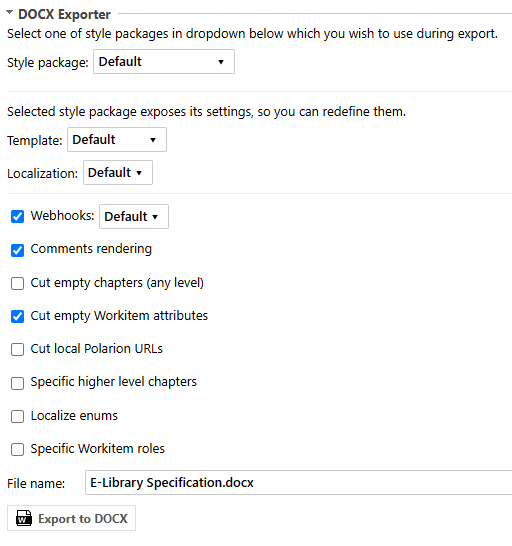
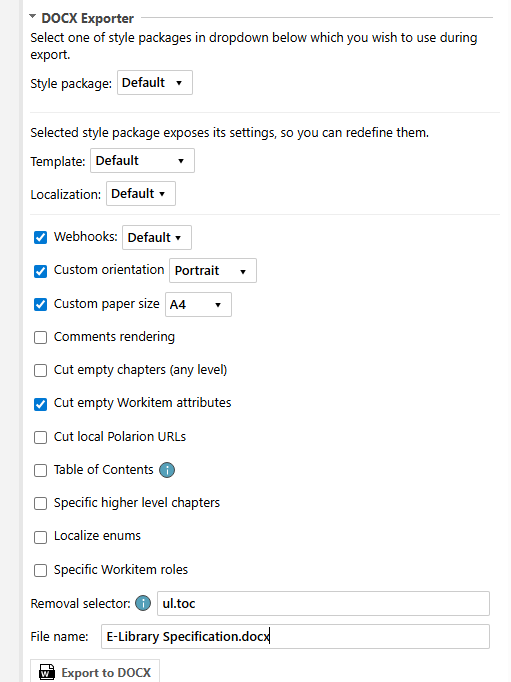
chore: user guide update, unit tests

Changed region(s): [[0.0, 0.1868, 0.9687, 1.0], [0.0, 0.0, 0.9687, 0.1557]]

diff --git a/src/test/java/ch/sbb/polarion/extension/docx_exporter/DocxExporterFormExtensionTest.java b/src/test/java/ch/sbb/polarion/extension/docx_exporter/DocxExporterFormExtensionTest.java
@@ -15,6 +15,7 @@ import org.junit.jupiter.api.extension.ExtendWith;
 import org.mockito.MockedStatic;
 import org.mockito.junit.jupiter.MockitoExtension;
 
+import java.util.Arrays;
 import java.util.List;
 
 import static org.mockito.Mockito.*;
@@ -35,12 +36,7 @@ class DocxExporterFormExtensionTest {
         DocxExporterFormExtension extension = spy(new DocxExporterFormExtension());
         SettingName settingName = SettingName.builder().id("testId").name("testName").build();
         doReturn(List.of(settingName)).when(extension).getSuitableStylePackages(any());
-        StylePackageModel stylePackage = StylePackageModel.builder()
-                .removalSelector("someSpecificSelector")
-                .renderComments(CommentsRenderType.ALL)
-                .orientation("LANDSCAPE")
-                .paperSize("A3")
-                .build();
+        StylePackageModel stylePackage = StylePackageModel.builder().build();
         doReturn(stylePackage).when(extension).getSelectedStylePackage(any(), any());
         doReturn(List.of(settingName)).when(extension).getSettingNames(any(), any());
         doReturn("TestFileName.docx").when(extension).getFilename(any());
@@ -48,7 +44,15 @@ class DocxExporterFormExtensionTest {
         try (MockedStatic<EnumValuesProvider> mockEnumValuesProvider = mockStatic(EnumValuesProvider.class)) {
             mockEnumValuesProvider.when(() -> EnumValuesProvider.getAllLinkRoleNames(any())).thenReturn(List.of("relates to", "blocks", "duplicates"));
             extension.renderForm(context, module);
-            verify(builder).html(argThat(arg -> arg != null && arg.contains("someSpecificSelector")));
+            List<String> expectedEntries = Arrays.asList("someSpecificSelector", "<input id='render-comments' checked", "<input id='docx-orientation' checked", "<input id='docx-paper-size' checked");
+            verify(builder, times(0)).html(argThat(arg -> expectedEntries.stream().allMatch(arg::contains)));
+
+            stylePackage.setRemovalSelector("someSpecificSelector");
+            stylePackage.setRenderComments(CommentsRenderType.ALL);
+            stylePackage.setOrientation("LANDSCAPE");
+            stylePackage.setPaperSize("A3");
+            extension.renderForm(context, module);
+            verify(builder, times(1)).html(argThat(arg -> expectedEntries.stream().allMatch(arg::contains)));
         }
     }
 

diff --git a/src/test/java/ch/sbb/polarion/extension/docx_exporter/converter/HtmlToDocxConverterTest.java b/src/test/java/ch/sbb/polarion/extension/docx_exporter/converter/HtmlToDocxConverterTest.java
@@ -1,6 +1,7 @@
 package ch.sbb.polarion.extension.docx_exporter.converter;
 
 import ch.sbb.polarion.extension.docx_exporter.configuration.DocxExporterExtensionConfigurationExtension;
+import ch.sbb.polarion.extension.docx_exporter.pandoc.service.PandocServiceConnector;
 import ch.sbb.polarion.extension.docx_exporter.pandoc.service.model.PandocParams;
 import ch.sbb.polarion.extension.docx_exporter.util.HtmlProcessor;
 import ch.sbb.polarion.extension.docx_exporter.util.DocxTemplateProcessor;
@@ -13,6 +14,7 @@ import org.mockito.junit.jupiter.MockitoExtension;
 
 import static org.assertj.core.api.Assertions.assertThat;
 import static org.assertj.core.api.Assertions.assertThatThrownBy;
+import static org.junit.jupiter.api.Assertions.assertDoesNotThrow;
 import static org.mockito.ArgumentMatchers.*;
 import static org.mockito.Mockito.verify;
 import static org.mockito.Mockito.when;
@@ -24,6 +26,9 @@ class HtmlToDocxConverterTest {
 
     @Mock
     private HtmlProcessor htmlProcessor;
+
+    @Mock
+    private PandocServiceConnector serviceConnector;
 
     @InjectMocks
     private HtmlToDocxConverter htmlToDocxConverter;
@@ -118,10 +123,25 @@ class HtmlToDocxConverterTest {
     }
 
     @Test
+    void shouldCallConnector() {
+        String html = """
+                <html>
+                    <body>
+                        <span>example text</span>
+                    </body>
+                </html>""";
+        PandocParams params = PandocParams.builder().build();
+        HtmlToDocxConverter converter = new HtmlToDocxConverter(docxTemplateProcessor, htmlProcessor, serviceConnector);
+        assertDoesNotThrow(() -> converter.convert(html, null, null, params));
+        verify(serviceConnector).convertToDocx(html, null, null, params);
+    }
+
+    @Test
     void shouldThrowIllegalArgumentForMalformedHtml() {
         String html = "<span>example text</span>";
+        PandocParams params = PandocParams.builder().build();
 
-        assertThatThrownBy(() -> htmlToDocxConverter.convert(html, null, null, PandocParams.builder().build()))
+        assertThatThrownBy(() -> htmlToDocxConverter.convert(html, null, null, params))
                 .isInstanceOf(IllegalArgumentException.class)
                 .hasMessageContaining("html is malformed");
     }

diff --git a/src/main/java/ch/sbb/polarion/extension/docx_exporter/DocxExporterFormExtension.java b/src/main/java/ch/sbb/polarion/extension/docx_exporter/DocxExporterFormExtension.java
@@ -154,6 +154,7 @@ public class DocxExporterFormExtension implements IFormExtension {
     }
 
     @VisibleForTesting
+    @SuppressWarnings("unchecked")
     Collection<SettingName> getSettingNames(@NotNull String featureName, @NotNull String scope) {
         try {
             return NamedSettingsRegistry.INSTANCE.getByFeatureName(featureName).readNames(scope);
@@ -199,7 +200,7 @@ public class DocxExporterFormExtension implements IFormExtension {
     }
 
     private String adjustPaperSize(String form, StylePackageModel stylePackage) {
-        if (stylePackage.getRenderComments() != null) {
+        if (stylePackage.getPaperSize() != null) {
             form = form.replace("<input id='docx-paper-size'", "<input id='docx-paper-size' checked");
             form = form.replace("id='docx-paper-size-selector' style='display: none'", "id='docx-paper-size-selector'");
             form = form.replace(String.format(OPTION_VALUE, stylePackage.getPaperSize()), String.format(OPTION_SELECTED, stylePackage.getPaperSize()));

diff --git a/USER_GUIDE.md b/USER_GUIDE.md
@@ -3,6 +3,8 @@
 * [Options](#options)
     * [Localization](#localization)
     * [Webhooks](#webhooks)
+    * [Custom page orientation](#custom-page-orientation)
+    * [Custom paper size](#custom-paper-size)
     * [Comments rendering](#comments-rendering)
     * [Cut empty chapters](#cut-empty-chapters)
     * [Cut empty Workitem attributes](#cut-empty-workitem-attributes)
@@ -48,6 +50,18 @@ The same relates to localization settings, which one to use during DOCX generati
 In this section you can choose specific webhook for custom HTML processing before sending it to Pandoc:
 
 ![Webhooks](docs/user_guide/img/webhooks.png)
+
+Note that webhooks should be pre-configured by the admin otherwise this option is unavailable.
+
+### Custom page orientation
+You can specify page orientation for generated document:
+
+![Page orientation](docs/user_guide/img/orientation.png)
+
+### Custom paper size
+Allows to set specific paper size for generated document:
+
+![Paper size](docs/user_guide/img/paper_size.png)
 
 ### Comments rendering
 This option which is on by default tells DOCX Exporter to include Polarion document's comments into generated DOCX document (REMARK: please take into account that this relates only to LiveDoc comments, WorkItem comments regardless the fact
